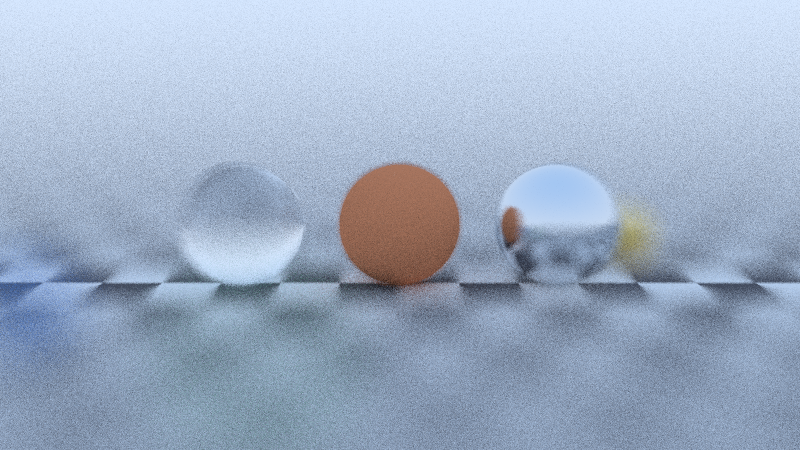
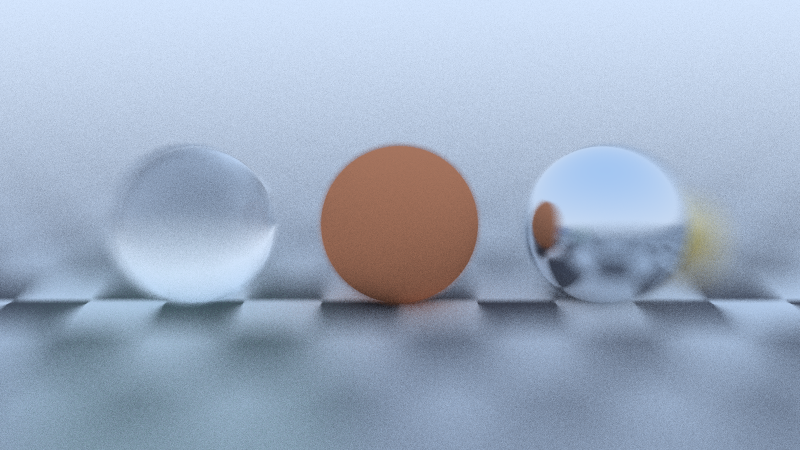
render the hero at 128 samples and tighten the camera

Changed region(s): [[0.0, 0.3111, 1.0, 1.0], [0.4688, 0.9956, 0.5, 1.0]]

diff --git a/raydiant/scenes.py b/raydiant/scenes.py
@@ -26,12 +26,12 @@ def trio():
     world.add(Sphere(Vec3(-4.9, 0.25, -2.8), 0.25, Metal(Vec3(0.9, 0.9, 0.9), 0.0)))
 
     camera = dict(
-        lookfrom=Vec3(0.0, 2.6, 9.6),
+        lookfrom=Vec3(0.0, 2.2, 7.8),
         lookat=Vec3(0.0, 1.0, 0.0),
         vup=Vec3(0, 1, 0),
-        vfov=42.0,
+        vfov=40.0,
         aperture=0.55,
-        focus_dist=9.8,
+        focus_dist=7.9,
     )
     return world, camera
 

diff --git a/README.md b/README.md
@@ -22,8 +22,8 @@ encoder (zlib and struct, nothing else).
 
 The hero above is the `trio` scene: a checker floor, a glass sphere, a matte
 red one, and a metal one, with defocus blur softening the background. It
-rendered at 800x450 with 32 samples per pixel and a bounce depth of 20 in
-383 seconds on a 2 vCPU cloud VM, measured 2026-10-19.
+rendered at 800x450 with 128 samples per pixel and a bounce depth of 16 in
+1547 seconds on a 2 vCPU cloud VM, measured 2026-10-19.
 
 ![a field of small random spheres](renders/cover.png)
 
@@ -56,7 +56,7 @@ There is no install step. Clone it and go:
 ```
 git clone https://github.com/SachuJames/raydiant.git
 cd raydiant
-python3 -m raydiant render --scene trio --width 800 --spp 32 --depth 20 --seed 7 --jobs 2 --out renders/trio.png
+python3 -m raydiant render --scene trio --width 800 --spp 128 --depth 16 --seed 7 --jobs 2 --out renders/trio.png
 ```
 
 The `cover` scene:
